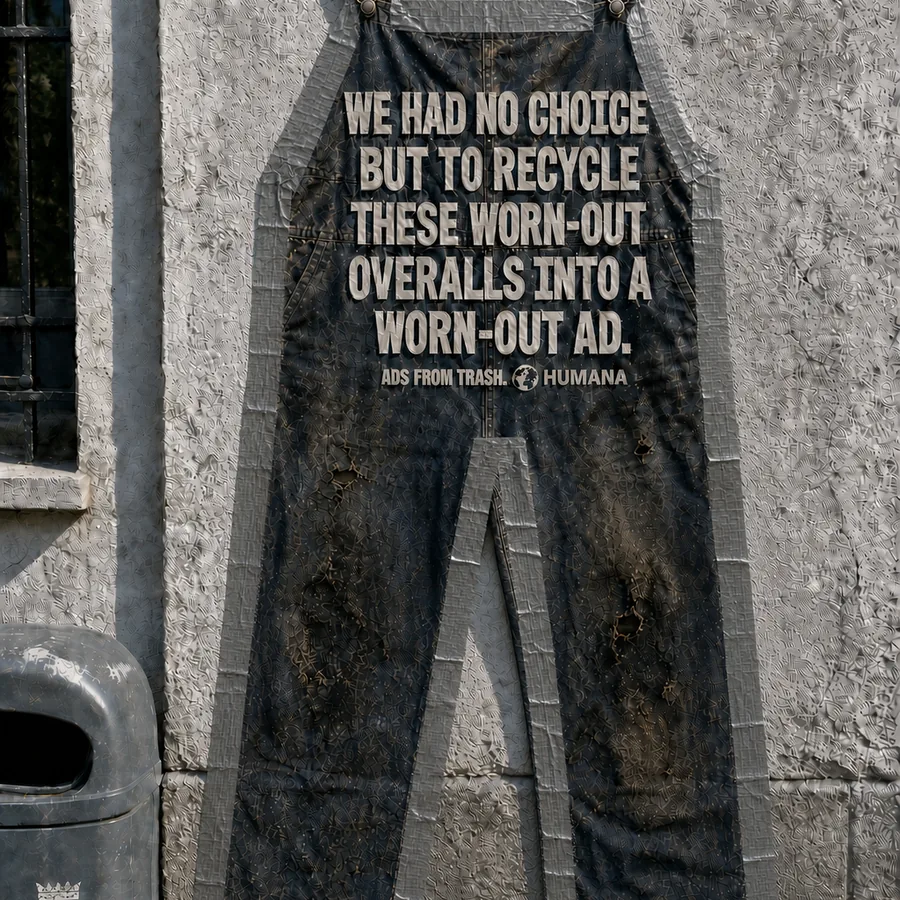
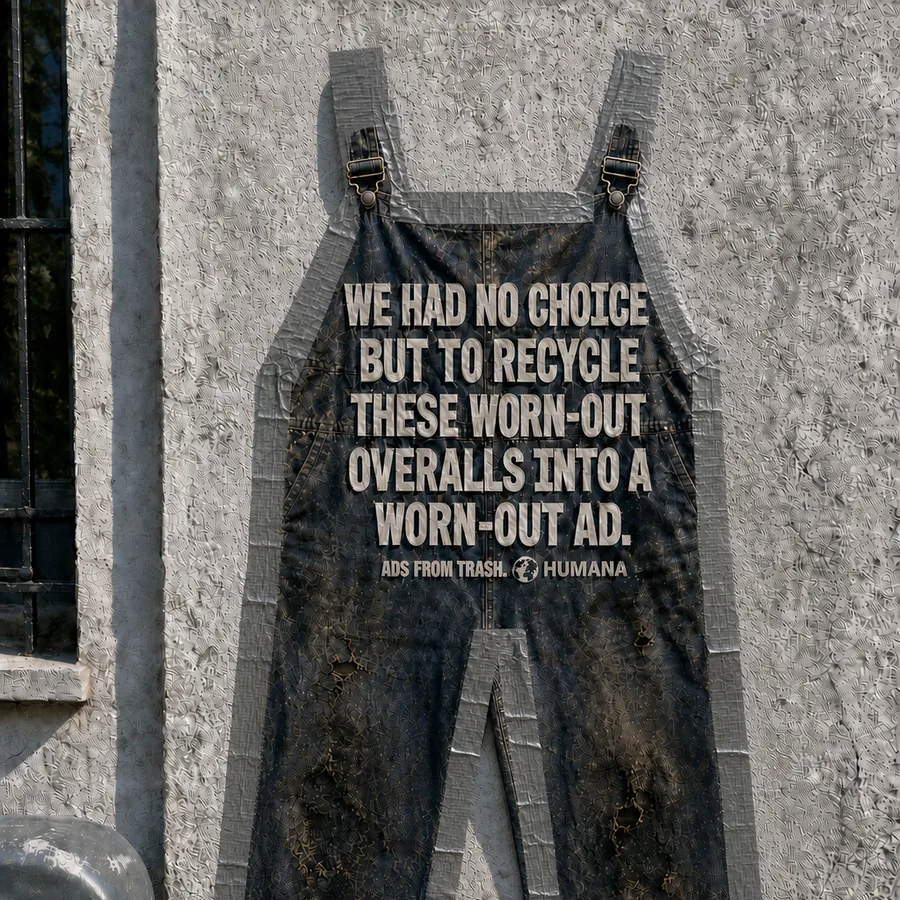
Recrop the overalls and the pile
The overalls carry their line high on the bib, so squaring the shot on
the garment's own centre put the line in the top third with a lot of
empty trouser under it. Taken from the top of the file instead: the
straps come in, the legs run out of the bottom of the square, and the
line lands in the middle of the frame.

The pile runs diagonally across a lit floor, and a full-width square
hung off the top of it kept a wedge of empty floor in the top right.
Dropped lower and pulled in from the right edge, that corner is garment
and all four lines still read — the hoodie's last line is in frame now
rather than half off the left edge.

crop_aft.py could only slide a full-width square up and down, which is
what all seven other crops want; a job can now name its own side and
left edge as well. The seven come out byte for byte identical.

Claude-Session: https://claude.ai/code/session_01EGUFMc7as3is9eHpsaFwZb

diff --git a/sw.js b/sw.js
@@ -13,7 +13,7 @@
    Bump VERSION after rebuilding frames to force every client onto the new art in
    one step. Without a bump the stale-while-revalidate path below still picks up
    changes, just one visit later. */
-const VERSION = 'pitalva-v51';
+const VERSION = 'pitalva-v52';
 const CACHE = VERSION;
 
 /* Enough to boot and play the first dap. The rest of the frames land in the

diff --git a/tools/crop_aft.py b/tools/crop_aft.py
@@ -8,13 +8,16 @@ the only decision here, and it is not the middle: a centred square through a
 2:3 photograph of a t-shirt hung on a wall cuts the shirt in half and keeps a
 lot of pavement.
 
-So each crop is full width (the square is always as wide as the file) and
-placed vertically by hand, at the fraction below, to sit the subject in the
-frame: the garment centred on its own centre for the hung shots, the pile
-placed high enough that all four of its garments still read their own line,
-and the close-ups placed on their letters rather than on the fabric under
-them. The fractions are the top edge of the square as a
-fraction of the file's height, clamped so a crop can never run off the bottom.
+Most crops are full width (the square is as wide as the file) and placed
+vertically by hand, at the fraction below, to sit the subject in the frame: the
+garment centred on its own centre for the hung shots, and the close-ups placed
+on their letters rather than on the fabric under them. The fractions are the top
+edge of the square as a fraction of the file's height, clamped so a crop can
+never run off the bottom.
+
+Two of them need more than a vertical nudge, so a job can also name a `side`
+narrower than the file and its own `left` edge. The originals are 2048px for a
+900px output, so there is room to crop inside the frame and still be over 2x.
 
 Output is 900px square WebP — twice the ~450px a cell measures on a 1920
 layout, so the grid stays sharp on a 2x display.
@@ -25,6 +28,7 @@ layout, so the grid stays sharp on a 2x display.
 out-dir defaults to img/projects/ads-from-trash.
 """
 import sys
+from collections import namedtuple
 from pathlib import Path
 
 from PIL import Image
@@ -34,17 +38,30 @@ Image.MAX_IMAGE_PIXELS = None
 SIZE = 900
 QUALITY = 82
 
-# src, out, top edge of the square as a fraction of the source's height
+# `top` and `left` are the square's top and left edges as fractions of the
+# file's height and width; `side` is how wide the square is as a fraction of the
+# file's width. Left defaults to centred, side to the full width.
+Job = namedtuple('Job', 'src dst top side left', defaults=(1.0, None))
+
 JOBS = [
-    ('01-tshirt-full-2x.png', 'full-tshirt.webp', 0.000),
-    ('02-sequin-dress-full-2x.png', 'full-dress.webp', 0.057),
-    ('03-blood-stained-gamer-hoodie-full-2x.png', 'full-hoodie.webp', 0.097),
-    ('04-grease-oil-overalls-full-2x.png', 'full-overalls.webp', 0.142),
-    ('05-four-garments-window-light-pile-2x.png', 'pile.webp', 0.100),
-    ('01-tshirt-closeup.png', 'close-tshirt.webp', 0.167),
-    ('02-sequin-dress-closeup.png', 'close-dress.webp', 0.100),
-    ('03-blood-stained-gamer-hoodie-closeup.png', 'close-hoodie.webp', 0.000),
-    ('04-grease-oil-overalls-closeup.png', 'close-overalls.webp', 0.000),
+    Job('01-tshirt-full-2x.png', 'full-tshirt.webp', 0.000),
+    Job('02-sequin-dress-full-2x.png', 'full-dress.webp', 0.057),
+    Job('03-blood-stained-gamer-hoodie-full-2x.png', 'full-hoodie.webp', 0.097),
+    # The overalls carry their line high on the bib, and cropping to the
+    # garment's own centre left it sitting in the top third with a lot of empty
+    # trouser under it. Taken from the top of the file instead: the straps come
+    # in, the legs run out of the bottom of the square, and the line lands in
+    # the middle of the frame where it belongs.
+    Job('04-grease-oil-overalls-full-2x.png', 'full-overalls.webp', 0.000),
+    # The pile runs diagonally across a lit floor, so a full-width square hung
+    # off the top of it kept a wedge of empty floor in the top right. Dropped
+    # lower and pulled in from the right edge, the corner is garment and all
+    # four lines still read.
+    Job('05-four-garments-window-light-pile-2x.png', 'pile.webp', 0.182, 0.903, 0.000),
+    Job('01-tshirt-closeup.png', 'close-tshirt.webp', 0.167),
+    Job('02-sequin-dress-closeup.png', 'close-dress.webp', 0.100),
+    Job('03-blood-stained-gamer-hoodie-closeup.png', 'close-hoodie.webp', 0.000),
+    Job('04-grease-oil-overalls-closeup.png', 'close-overalls.webp', 0.000),
 ]
 
 
@@ -53,15 +70,15 @@ def main():
     out = Path(sys.argv[2]) if len(sys.argv) > 2 else Path('img/projects/ads-from-trash')
     out.mkdir(parents=True, exist_ok=True)
 
-    for name, dst, top in JOBS:
-        im = Image.open(src / name).convert('RGB')
+    for job in JOBS:
+        im = Image.open(src / job.src).convert('RGB')
         w, h = im.size
-        s = min(w, h)
-        y = max(0, min(h - s, round(top * h)))
-        x = (w - s) // 2
+        s = min(round(job.side * w), h)
+        y = max(0, min(h - s, round(job.top * h)))
+        x = (w - s) // 2 if job.left is None else max(0, min(w - s, round(job.left * w)))
         sq = im.crop((x, y, x + s, y + s)).resize((SIZE, SIZE), Image.LANCZOS)
-        sq.save(out / dst, quality=QUALITY, method=6)
-        print(f'{name} {w}x{h} -> {dst} @ y={y}')
+        sq.save(out / job.dst, quality=QUALITY, method=6)
+        print(f'{job.src} {w}x{h} -> {job.dst} @ {x},{y} {s}px')
 
 
 if __name__ == '__main__':
